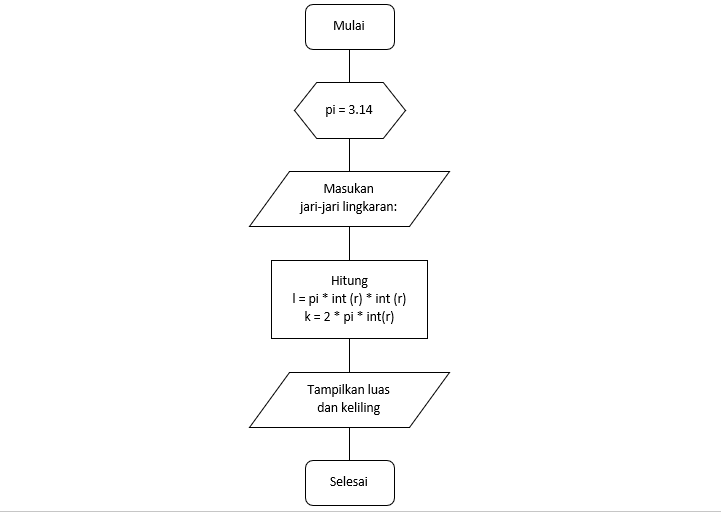
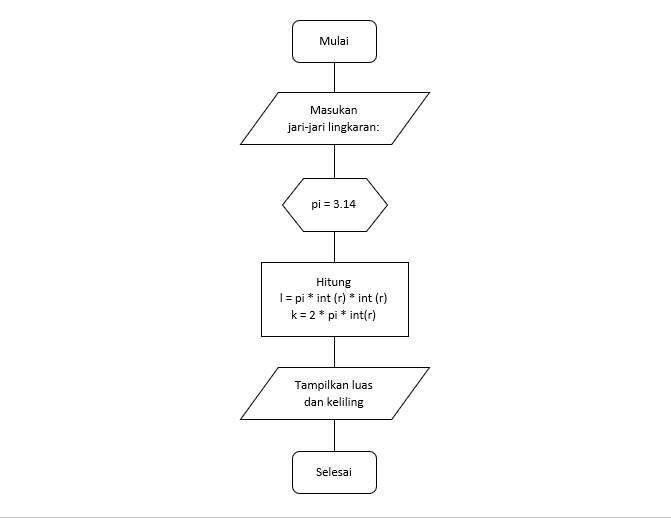
Mengubah gambar

diff --git a/README.md b/README.md
@@ -4,7 +4,7 @@
 -----------------------------------------------------
 
 *Flowchart Menghitung Luas dan Keliling lingkaran*
-![00  Flowchart praktikum 3](https://user-images.githubusercontent.com/115614668/198234232-37ab2dd5-a350-4d53-b5d5-75433db7a2e7.png)
+![00  Flowchart praktikum 3](https://user-images.githubusercontent.com/115614668/198582649-b94e614a-e8e0-4ce0-b529-db989c13977a.png)
 
 Langkah-langkah membuat program menghitung Luas dan Keliling lingkaran
 -----------------------------------------------------

diff --git a/Latihan 1 - 3/README.md b/Latihan 1 - 3/README.md
@@ -1,0 +1,3 @@
+# Penjelasan latihan 1 - 3
+
+
